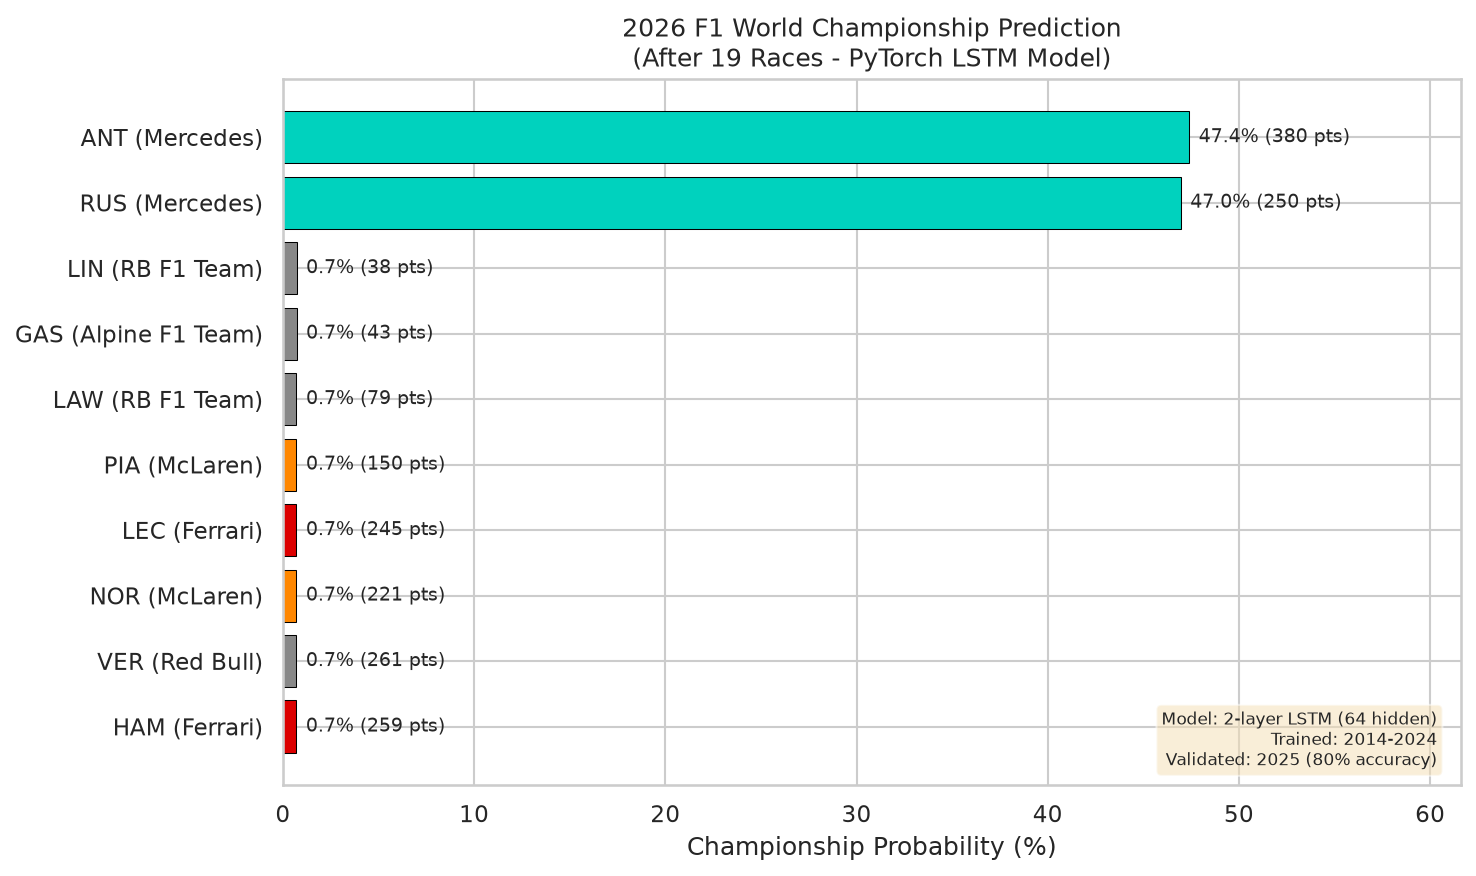
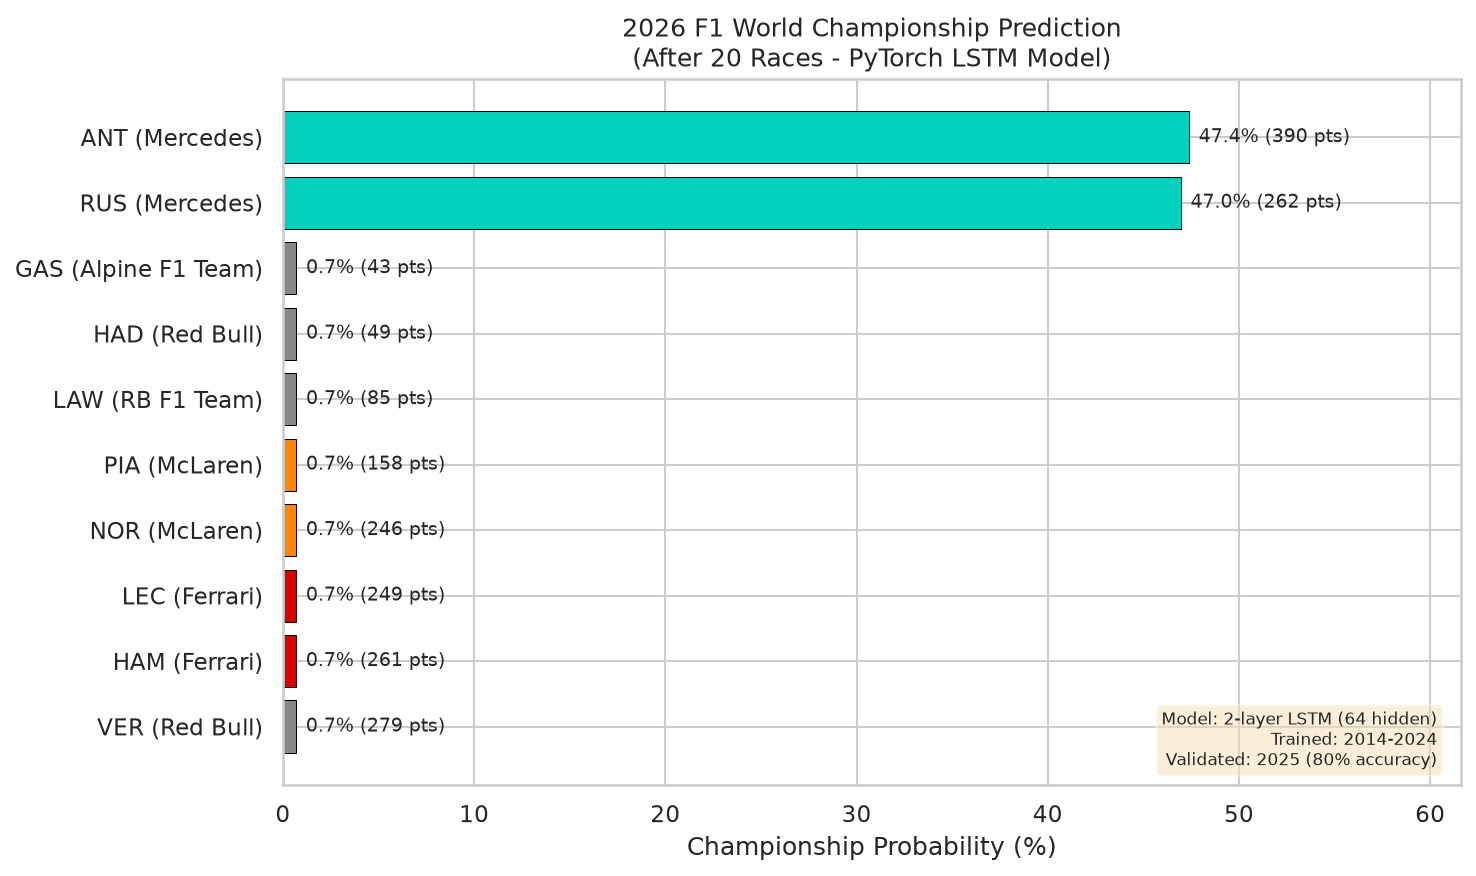
Update predictions after R20: São Paulo Grand Prix

diff --git a/README.md b/README.md
@@ -4,15 +4,15 @@ Predicting the 2026 F1 World Championship winner using a PyTorch LSTM model trai
 
 ## Key Results
 
-**2026 Prediction (After 19 Races):**
+**2026 Prediction (After 20 Races):**
 
 | Driver | Team | Points | Championship Probability |
 |--------|------|--------|--------------------------|
-| ANT | Mercedes | 380 | 47.4% |
-| RUS | Mercedes | 250 | 47.0% |
-| LIN | RB F1 Team | 38 | 0.7% |
+| ANT | Mercedes | 390 | 47.4% |
+| RUS | Mercedes | 262 | 47.0% |
 | GAS | Alpine F1 Team | 43 | 0.7% |
-| LAW | RB F1 Team | 79 | 0.7% |
+| HAD | Red Bull | 49 | 0.7% |
+| LAW | RB F1 Team | 85 | 0.7% |
 
 **Model sees a 94% chance a Mercedes driver wins 2026.**
 
